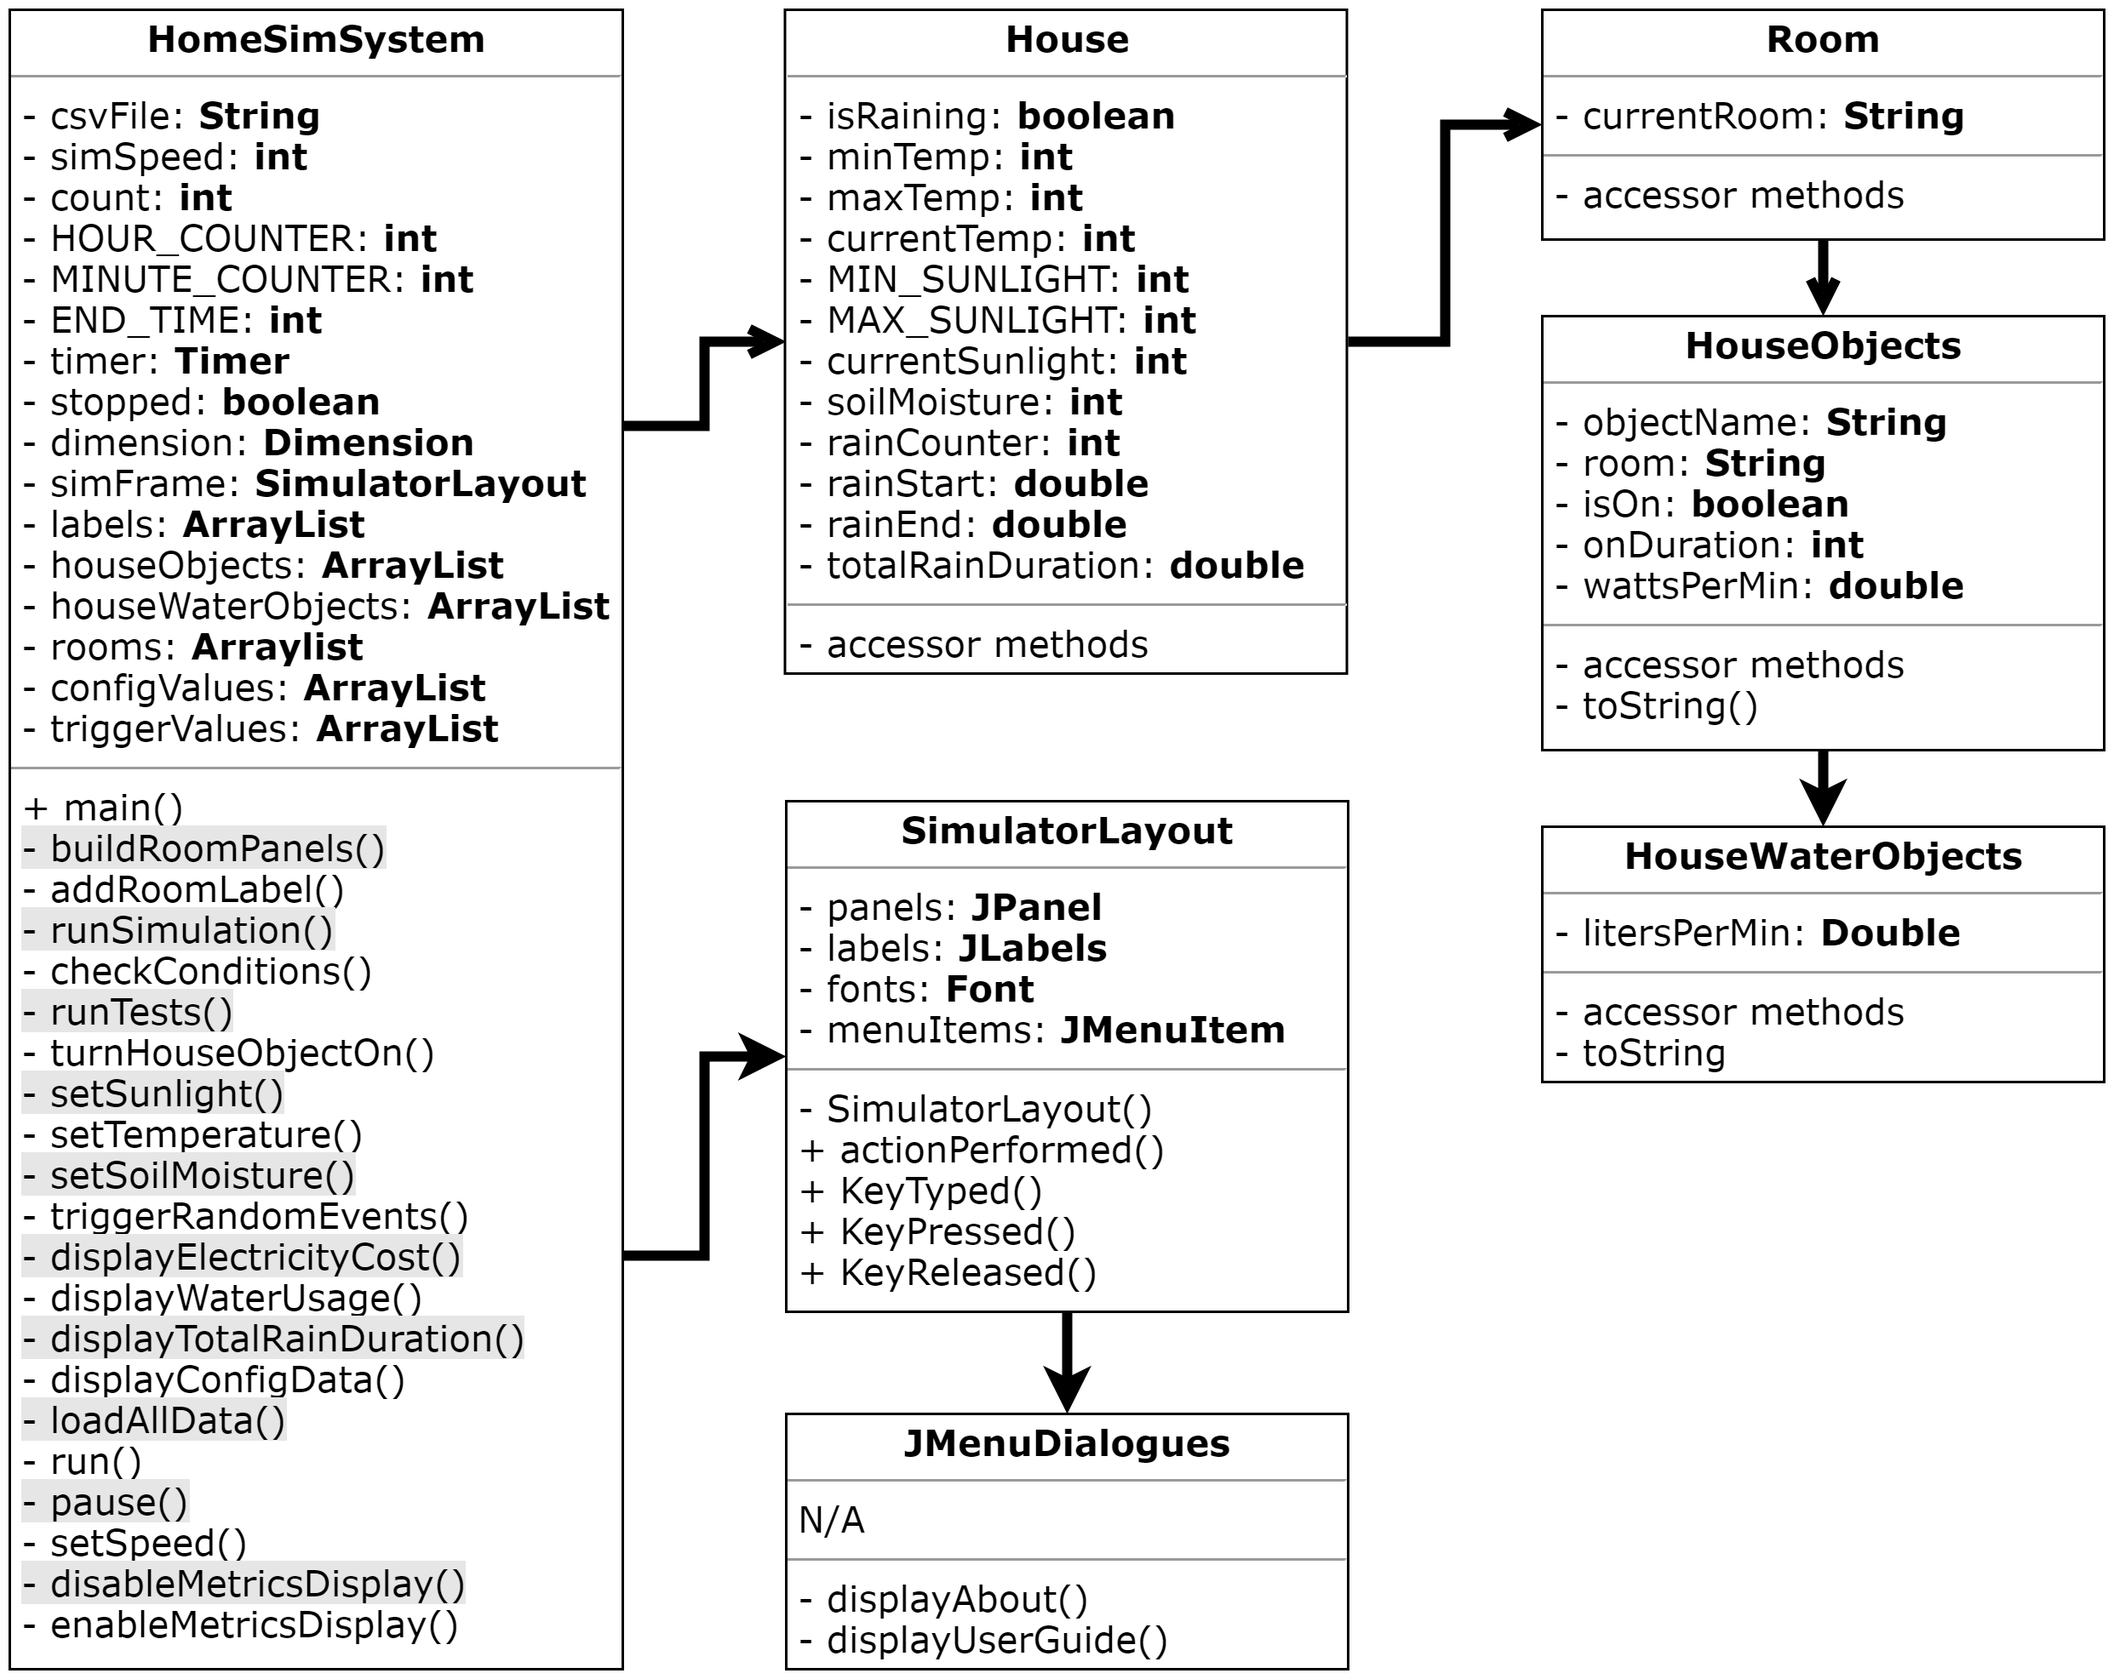
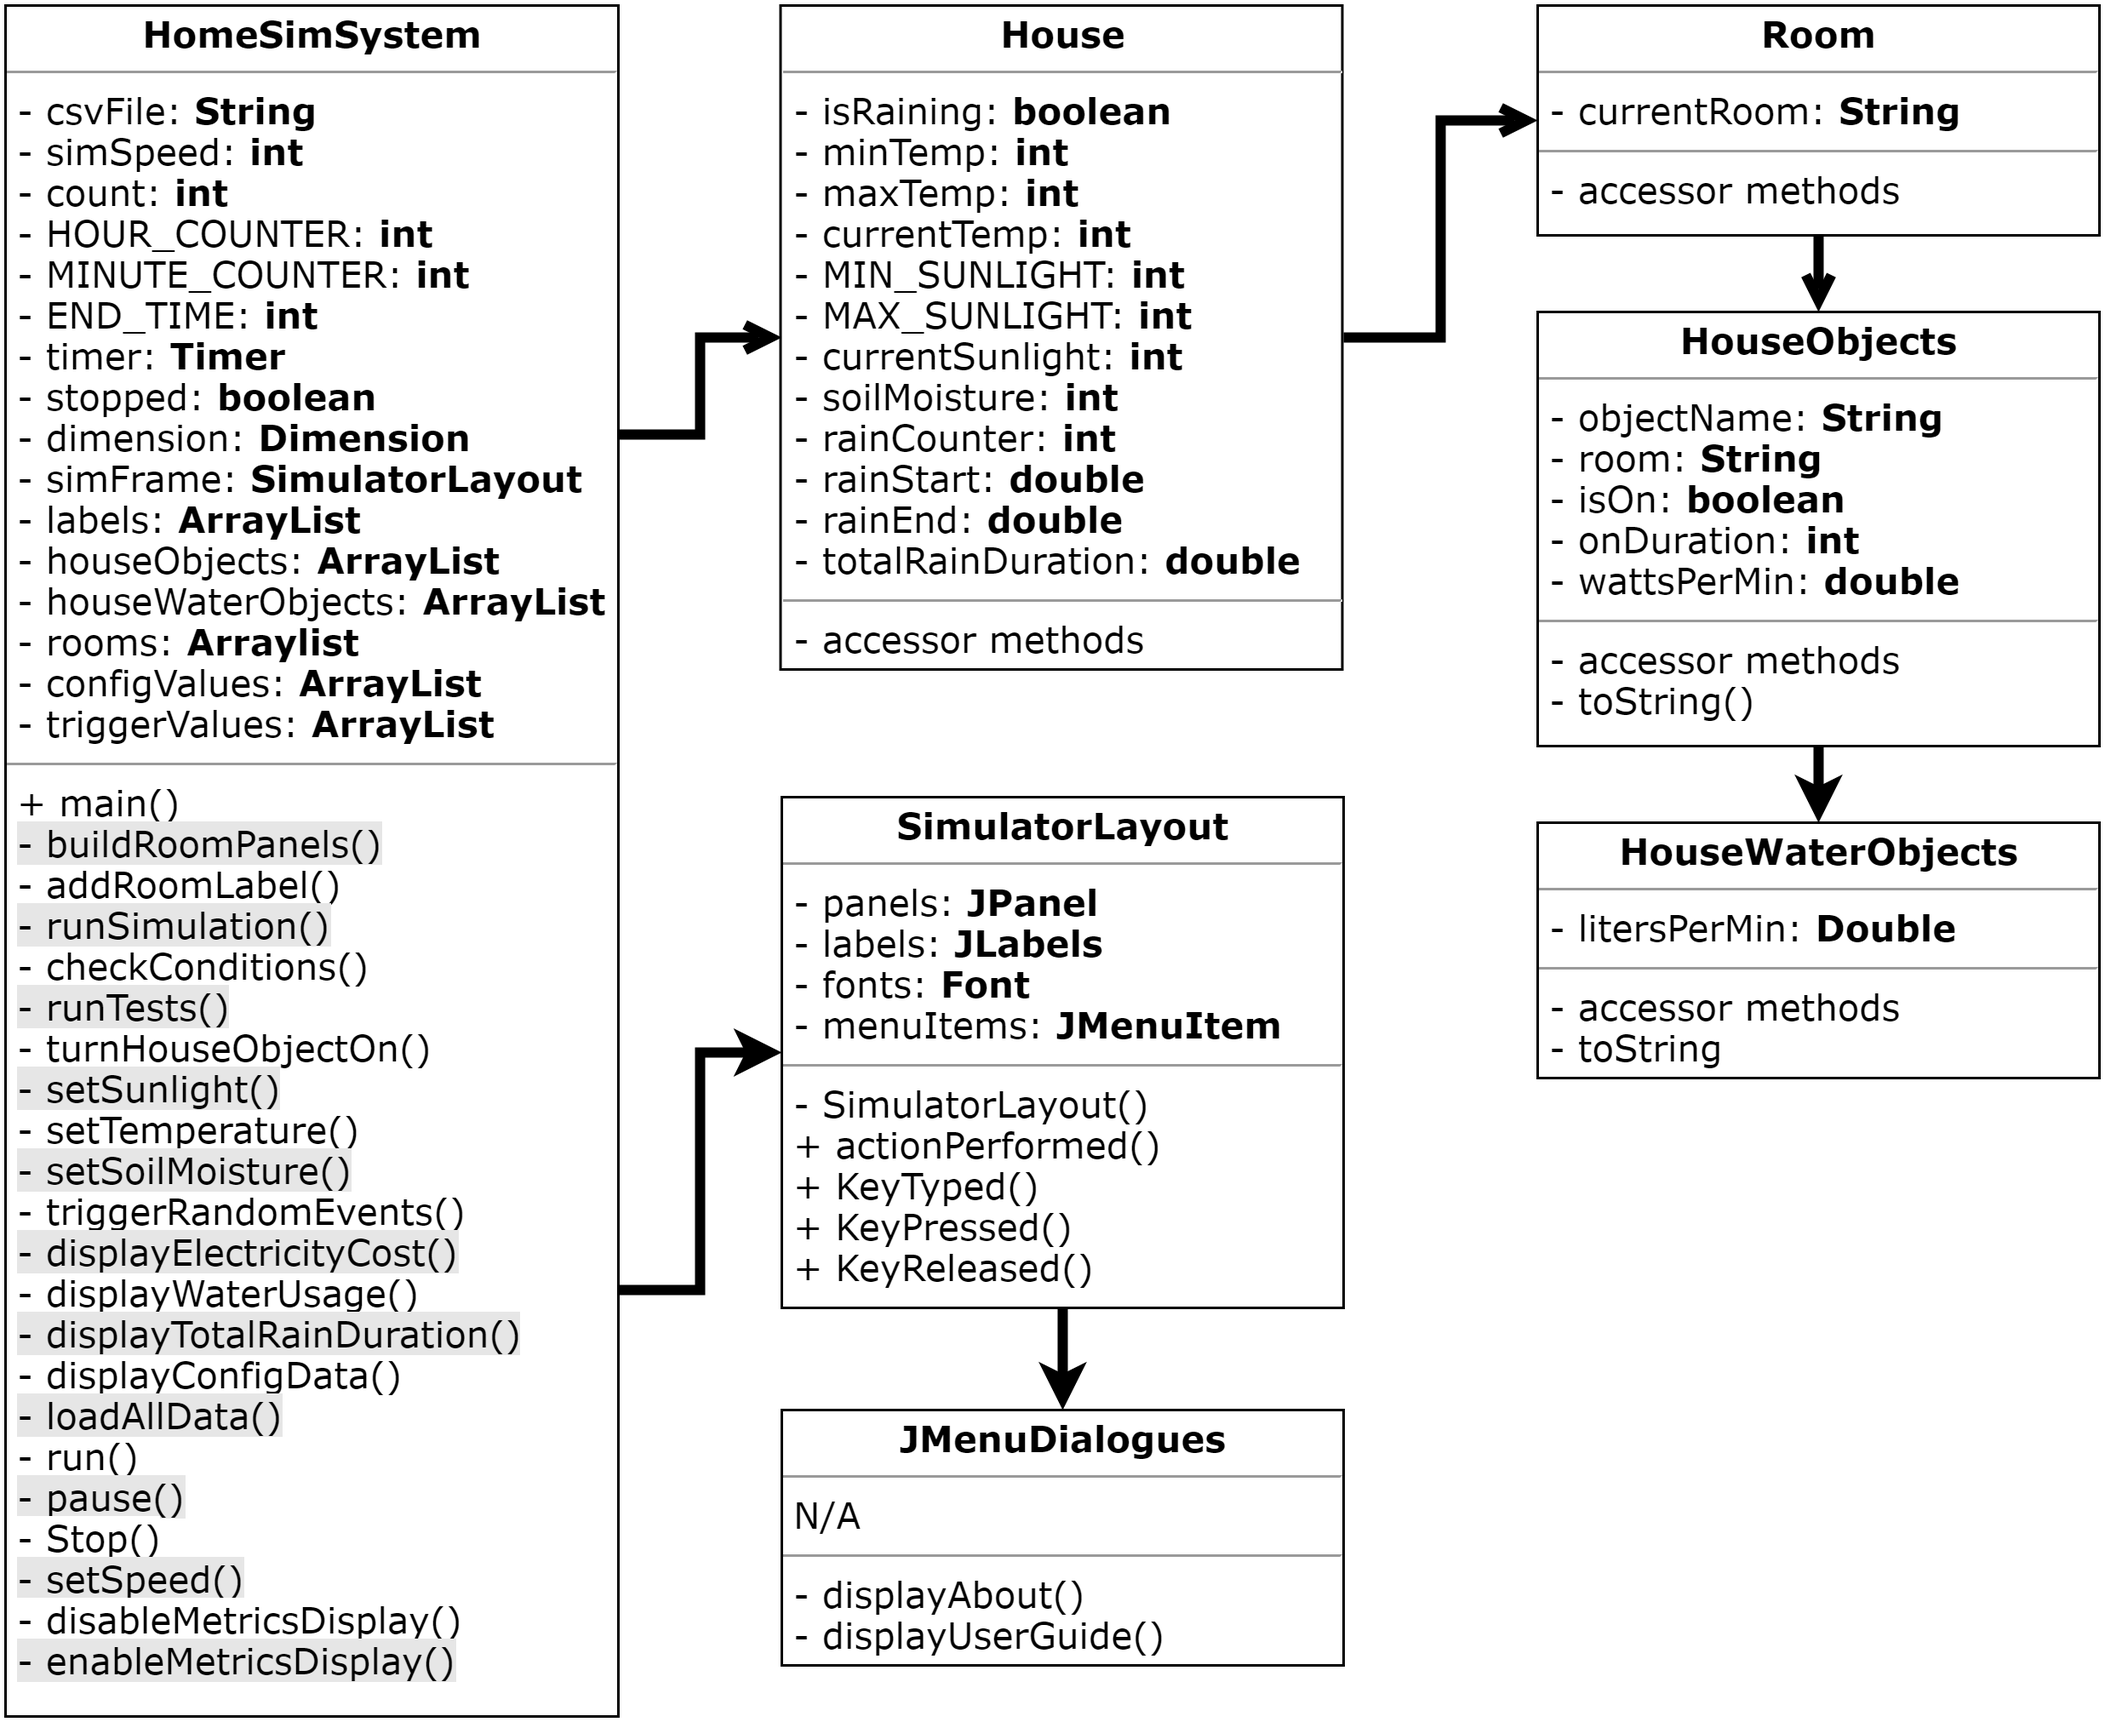
- Add Stop functionality - Update About and user guide information - Re-write action listeners to be one per menu object - Update Class diagram

diff --git a/JavaApplication/SimulatorLayout.java b/JavaApplication/SimulatorLayout.java
@@ -3,7 +3,7 @@ import java.awt.*;
 import java.awt.event.*;
 
 //Sets the layout for the GUI and sets event listeners
-public class SimulatorLayout extends JFrame implements ActionListener, KeyListener {
+public class SimulatorLayout extends JFrame implements KeyListener {
     //Create first row of GUI panels
     JPanel timePanel = new JPanel(new BorderLayout(5, 5));
     JPanel sunlightPanel = new JPanel(new BorderLayout(5, 5));
@@ -33,19 +33,20 @@ public class SimulatorLayout extends JFrame implements ActionListener, KeyListen
     Font smallInfoFont = new Font("Verdana", Font.PLAIN, 15);
 
     //Create menu items for menu 1
-    private JMenuItem viewConfig = new JMenuItem("Current Configuration (8)");
-    private JMenuItem exit = new JMenuItem("Exit (9)");
+    private JMenuItem viewConfig = new JMenuItem("Current Configuration (9)");
+    private JMenuItem exit = new JMenuItem("Exit (0)");
 
     //Create menu items for menu 2
     private JMenuItem run = new JMenuItem("Run (1)");
     private JMenuItem pause = new JMenuItem("Pause (2)");
-    private JMenuItem showHideInfo = new JMenuItem("Show/Hide Info (3)");
-    private JMenuItem changeSimSpeed = new JMenuItem("Change Sim Speed (4)");
+    private JMenuItem stop = new JMenuItem("Stop (3)");
+    private JMenuItem showHideInfo = new JMenuItem("Show/Hide Info (4)");
+    private JMenuItem setSimSpeed = new JMenuItem("Change Sim Speed (5)");
 
     //Create menu items for menu 3
-    private JMenuItem about = new JMenuItem("About (5)");
-    private JMenuItem userGuide = new JMenuItem("User Guide (6)");
-    private JMenuItem viewSimMetrics = new JMenuItem("Sim-speed Metrics (7)");
+    private JMenuItem about = new JMenuItem("About (6)");
+    private JMenuItem userGuide = new JMenuItem("User Guide (7)");
+    private JMenuItem viewSimMetrics = new JMenuItem("Sim-speed Metrics (8)");
 
     //Create counter to allow show/hide functionality
     private int showHideCounter = 0;
@@ -93,28 +94,30 @@ public class SimulatorLayout extends JFrame implements ActionListener, KeyListen
         mainBar.add(menu1);
         menu1.add(viewConfig);
         menu1.add(exit);
-        viewConfig.addActionListener(this);
-        exit.addActionListener(this);
+        viewConfig.addActionListener(e -> viewConfig());
+        exit.addActionListener(e -> exit());
 
         //Add menu 2, its menu items, and the required action listeners
         mainBar.add(menu2);
         menu2.add(run);
         menu2.add(pause);
+        menu2.add(stop);
         menu2.add(showHideInfo);
-        menu2.add(changeSimSpeed);
-        run.addActionListener(this);
-        pause.addActionListener(this);
-        showHideInfo.addActionListener(this);
-        changeSimSpeed.addActionListener(this);
+        menu2.add(setSimSpeed);
+        run.addActionListener(e -> runSim());
+        pause.addActionListener(e -> pauseSim());
+        stop.addActionListener(e -> stopSim());
+        showHideInfo.addActionListener(e -> toggleMetricsVisibility());
+        setSimSpeed.addActionListener(e -> setSimSpeed());
 
         //Add menu 3, its menu items, and the required action listeners
         mainBar.add(menu3);
         menu3.add(about);
         menu3.add(userGuide);
         menu3.add(viewSimMetrics);
-        about.addActionListener(this);
-        userGuide.addActionListener(this);
-        viewSimMetrics.addActionListener(this);
+        about.addActionListener(e -> aboutSim());
+        userGuide.addActionListener(e -> userGuide());
+        viewSimMetrics.addActionListener(e -> viewSimMetrics());
 
 
         //Add the time panel and set the layout
@@ -196,60 +199,50 @@ public class SimulatorLayout extends JFrame implements ActionListener, KeyListen
         setVisible(true);
     }
 
+    private void viewConfig() {
+        HomeSimSystem.displayConfigData();
+    }
 
-    @Override
-    //Set events for button presses
-    public void actionPerformed(ActionEvent e) {
-        Object source = e.getSource();
+    private void exit() {
+        System.exit(0);
+    }
 
-        //View the loaded config data
-        if (source == viewConfig) {
-            HomeSimSystem.displayConfigData();
-        }
-
-        //Exit the program
-        if (source == exit) {
-            System.exit(0);
-        }
-
-        //Toggle the visibility state of the non essential metrics
-        if (source == showHideInfo && showHideCounter % 2 == 0) {
+    private void toggleMetricsVisibility() {
+        if (showHideCounter % 2 == 0) {
             HomeSimSystem.disableMetricsDisplay();
             showHideCounter++;
         } else {
             HomeSimSystem.enableMetricsDisplay();
             showHideCounter++;
         }
+    }
 
-        //Run the simulator from the current time
-        if (source == run) {
-            HomeSimSystem.run();
-        }
+    private void runSim() {
+        HomeSimSystem.run();
+    }
 
-        //Pause the simulator at the current time
-        if (source == pause) {
-            HomeSimSystem.pause();
-        }
+    private void pauseSim() {
+        HomeSimSystem.pause();
+    }
 
-        //Change the simSpeed to the specified speed
-        if (source == changeSimSpeed) {
-            HomeSimSystem.setSpeed();
-        }
+    private void stopSim() {
+        HomeSimSystem.stop();
+    }
 
-        //Display the about information
-        if (source == about) {
-            JMenuDialogues.displayAbout();
-        }
+    private void setSimSpeed() {
+        HomeSimSystem.setSpeed();
+    }
 
-        //Display the user guide
-        if (source == userGuide) {
-            JMenuDialogues.displayUserGuide();
-        }
+    private void aboutSim() {
+        JMenuDialogues.displayAbout();
+    }
 
-        //Display information about the simulation speed
-        if (source == viewSimMetrics) {
-            HomeSimSystem.displaySimSpeed();
-        }
+    private void userGuide() {
+        JMenuDialogues.displayUserGuide();
+    }
+
+    private void viewSimMetrics() {
+        HomeSimSystem.displaySimSpeed();
     }
 
     @Override
@@ -258,50 +251,50 @@ public class SimulatorLayout extends JFrame implements ActionListener, KeyListen
 
         //Run the simulator from the current time
         if (c == '1') {
-            HomeSimSystem.run();
+            runSim();
         }
 
         //Pause the simulator at the current time
         if (c == '2') {
-            HomeSimSystem.pause();
+            pauseSim();
         }
 
         //Toggle the visibility state of the non essential metrics
-        if (c == '3' && showHideCounter % 2 == 0) {
-            HomeSimSystem.disableMetricsDisplay();
-            showHideCounter++;
-        } else {
-            HomeSimSystem.enableMetricsDisplay();
-            showHideCounter++;
+        if (c == '3') {
+            stopSim();
         }
 
         //Change the simSpeed to the specified speed
         if (c == '4') {
-            HomeSimSystem.setSpeed();
+            toggleMetricsVisibility();
         }
 
         //Display the about information
         if (c == '5') {
-            JMenuDialogues.displayAbout();
+            setSimSpeed();
         }
 
         //Display the user guide
         if (c == '6') {
-            JMenuDialogues.displayUserGuide();
+            JMenuDialogues.displayAbout();
         }
 
         //Display information about the simulation speed
         if (c == '7') {
-            HomeSimSystem.displaySimSpeed();
+            JMenuDialogues.displayUserGuide();
         }
 
         //View the loaded config data
         if (c == '8') {
-            HomeSimSystem.displayConfigData();
+            viewSimMetrics();
         }
 
         //Exit the program
         if (c == '9') {
+            viewConfig();
+        }
+
+        if (c == '0') {
             System.exit(0);
         }
     }

diff --git a/JavaApplication/HomeSimSystem.java b/JavaApplication/HomeSimSystem.java
@@ -140,6 +140,8 @@ public class HomeSimSystem {
     private static void runSimulation() {
         //Create house object based on config parameters
         House house = new House(configValues.get(0), configValues.get(1), configValues.get(2), configValues.get(3), configValues.get(4));
+        simFrame.eventAlertText.setText("N/A");
+        simFrame.eventAlertPanel.setBackground(Color.GREEN);
 
         //Initialise and set variables used in timer loop
         final String[] meridian = new String[1];
@@ -686,8 +688,8 @@ public class HomeSimSystem {
             stopped = false;
         } else {
             timer.start();
-            simFrame.timePanel.setBackground(Color.WHITE);
         }
+        simFrame.timePanel.setBackground(Color.WHITE);
     }
 
     //Pauses the simulation
@@ -696,8 +698,35 @@ public class HomeSimSystem {
             JOptionPane.showMessageDialog(null, "Simulator must be running to pause");
         } else {
             timer.stop();
-            simFrame.timePanel.setBackground(Color.RED);
+            simFrame.timePanel.setBackground(Color.ORANGE);
             stopped = false;
+        }
+    }
+
+    //Stops the simulation
+    static void stop(){
+        if (stopped){
+            JOptionPane.showMessageDialog(null, "Simulator must be running to stop");
+        }
+        else {
+            timer.stop();
+            count = 0;
+            HOUR_COUNTER = 5;
+            MINUTE_COUNTER = 0;
+            simFrame.timePanel.setBackground(Color.RED);
+            for (HouseObjects fixture : fixtures) {
+                fixture.setOnDuration(0);
+            }
+            for (HouseWaterObjects waterFixture : waterFixtures) {
+                waterFixture.setOnDuration(0);
+            }
+            for (HouseObjects appliance : appliances) {
+                appliance.setOnDuration(0);
+            }
+            for (HouseWaterObjects waterAppliance : waterAppliances) {
+                waterAppliance.setOnDuration(0);
+            }
+            stopped = true;
         }
     }
 

diff --git a/JavaApplication/JMenuDialogues.java b/JavaApplication/JMenuDialogues.java
@@ -4,7 +4,7 @@ import java.awt.*;
 class JMenuDialogues {
     //Displays About information
     static void displayAbout(){
-        JLabel message = new JLabel("<html><center><b>About Info</b></center>Home simulator version: <b>V0.34</b><br>" +
+        JLabel message = new JLabel("<html><center><b>About Info</b></center>Home simulator version: <b>V0.36</b><br>" +
                 "Programmer: <b>Nicholas Barty</b></html>");
         message.setFont(new Font("Verdana", Font.PLAIN, 20));
         JOptionPane.showMessageDialog(null,message);
@@ -22,13 +22,14 @@ class JMenuDialogues {
                 "<center><b>Shortcut Keys:</b></center>" +
                 "<b>(1)</b> Run Simulator<br>" +
                 "<b>(2)</b> Pause Simulator<br>" +
-                "<b>(3)</b> Show/Hide Metrics<br>" +
-                "<b>(4)</b> Set Simulation Speed<br>" +
-                "<b>(5)</b> Display About Information<br>" +
-                "<b>(6)</b> Display This Guide<br>" +
-                "<b>(7)</b> Display Sim Speed Metrics<br>" +
-                "<b>(8)</b> Display Loaded Config Data<br>" +
-                "<b>(9)</b> Exit Program</html>");
+                "<b>(3)</b> Stop Simulator<br>" +
+                "<b>(4)</b> Show/Hide Metrics<br>" +
+                "<b>(5)</b> Set Simulation Speed<br>" +
+                "<b>(6)</b> Display About Information<br>" +
+                "<b>(7)</b> Display This Guide<br>" +
+                "<b>(8)</b> Display Sim Speed Metrics<br>" +
+                "<b>(9)</b> Display Loaded Config Data<br>" +
+                "<b>(0)</b> Exit Program</html>");
         message.setFont(new Font("Verdana", Font.PLAIN, 20));
         JOptionPane.showMessageDialog(null,message);
     }
